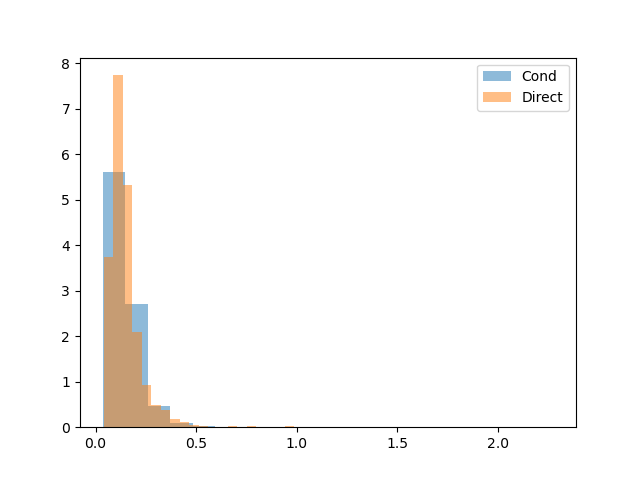
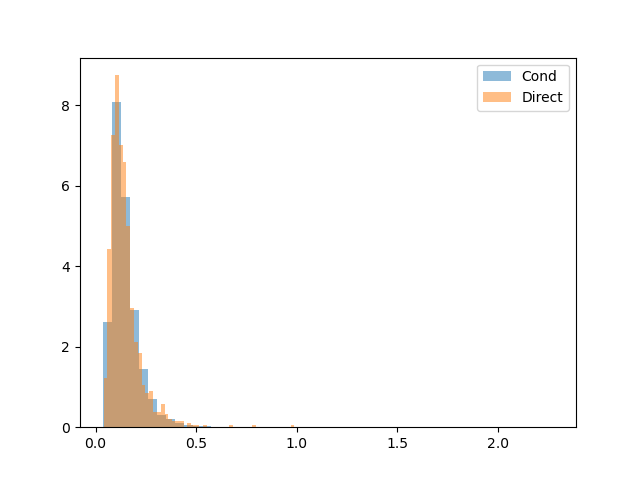
other resolution

diff --git a/test2.py b/test2.py
@@ -42,7 +42,7 @@ alm_EE = utils.complex_to_real(alms[1, :])
 alm_BB = utils.complex_to_real(alms[2, :])
 alms = np.vstack([alm_TT, alm_EE, alm_BB]).T
 print(alms.shape)
-
+"""
 for i in range(10000):
     if i % 10 == 0:
         print("Numerical inversion, iteration",i)
@@ -61,7 +61,7 @@ for i in range(10000):
 
 d = {"h_cond":np.array(h_cond), "h_direct":np.array(h_direct), "h_successes":np.array(h_successes)}
 np.save("numeric_inverse_test.npy", d, allow_pickle=True)
-
+"""
 d = np.load("numeric_inverse_test.npy", allow_pickle=True)
 d = d.item()
 h_cond = d["h_cond"]
@@ -69,7 +69,7 @@ h_direct = d["h_direct"]
 h_successes = d["h_successes"]
 
 
-plt.hist(h_cond, label="Cond", alpha=0.5, density=True, bins = 20)
-plt.hist(h_direct[:1000], label="Direct", alpha = 0.5, density=True, bins = 20)
+plt.hist(h_cond, label="Cond", alpha=0.5, density=True, bins = 50)
+plt.hist(h_direct[:1000], label="Direct", alpha = 0.5, density=True, bins = 50)
 plt.legend(loc="upper right")
 plt.savefig("test_inversion.png")
